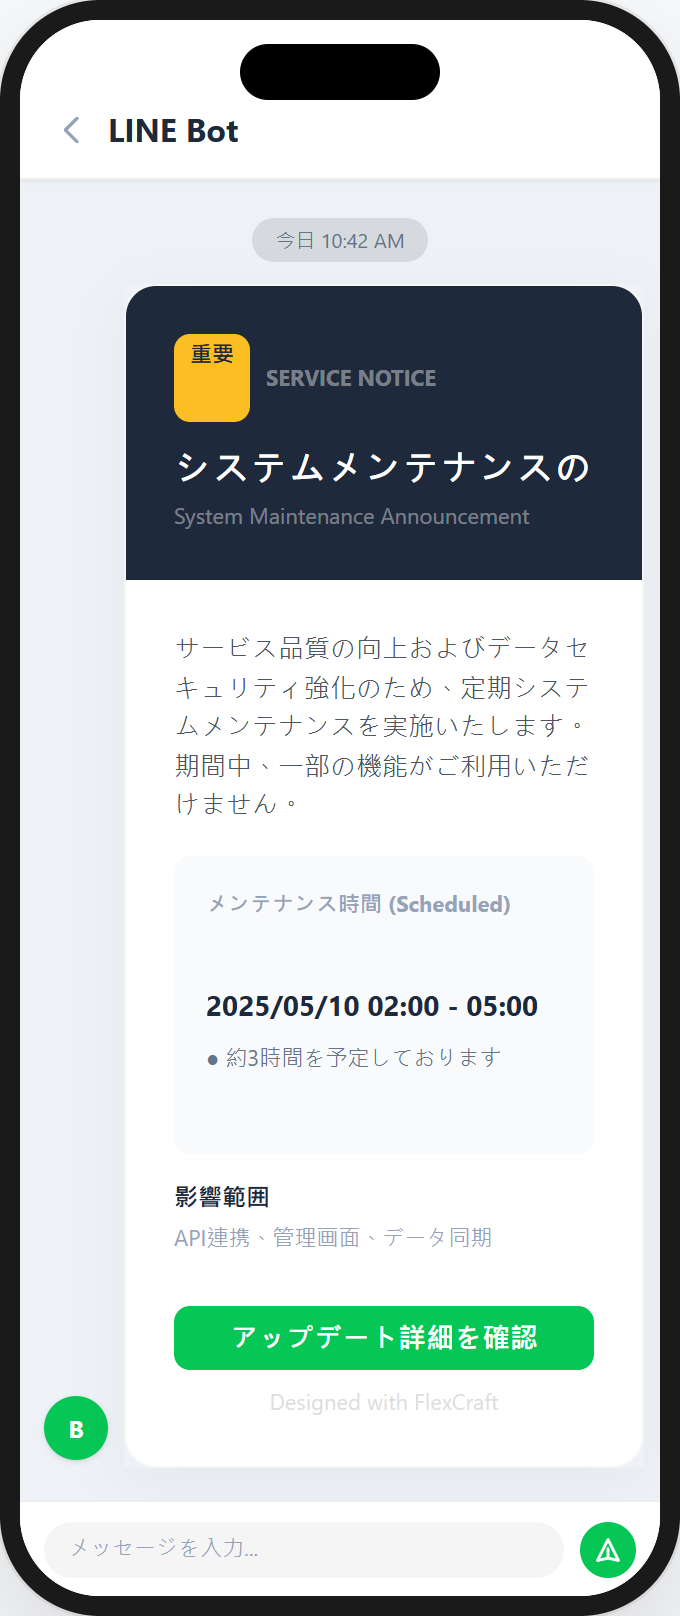
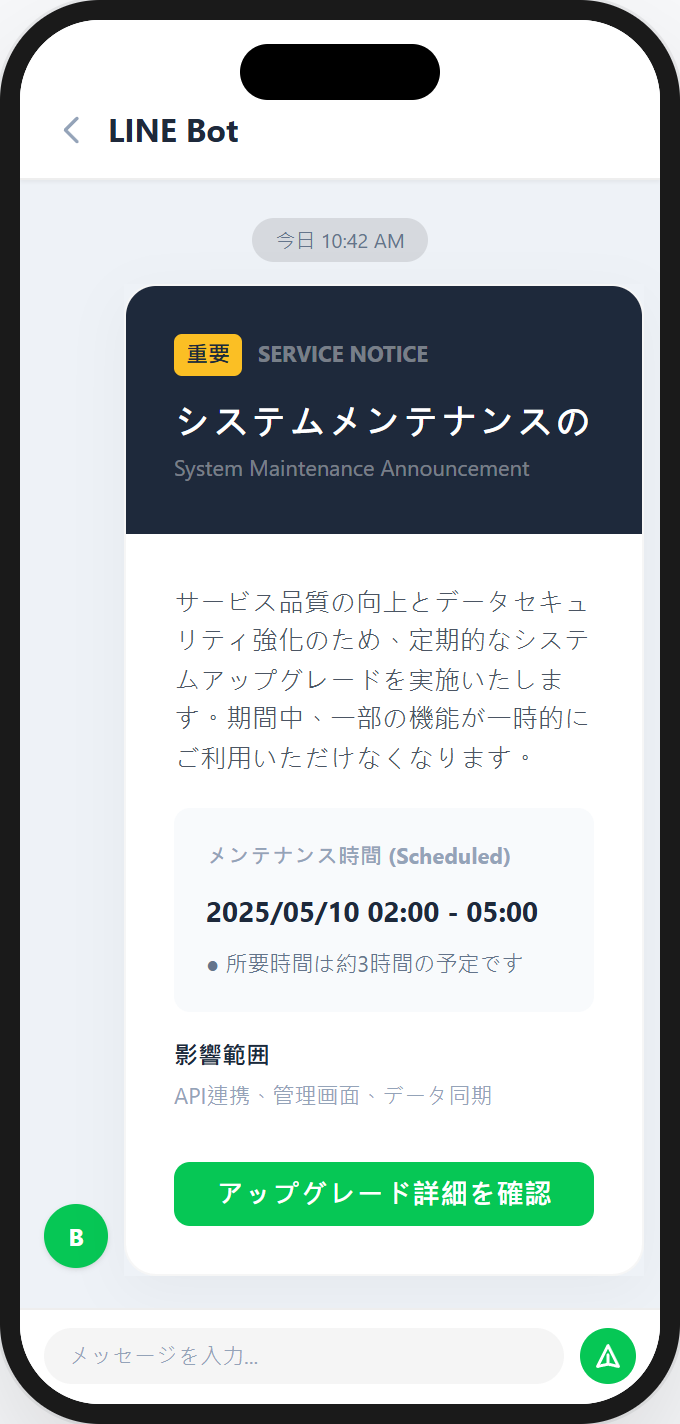
update

diff --git a/capture.js b/capture.js
@@ -4,9 +4,9 @@ const path = require('path');
 const csv = require('csv-parser');
 
 // --- 配置 ---
-const CSV_FILE = './fc_template.csv';
+const CSV_FILE = './fc_template1.csv';
 const OUTPUT_DIR = './previews';
-const BASE_DOMAIN = 'http://172.19.240.1:3005'; 
+const BASE_DOMAIN = 'http://192.168.253.1:3000'; 
 
 // 使用属性选择器精准匹配你的手机壳容器
 const PREVIEW_SELECTOR = '[class*="phone-shell"]'; 
